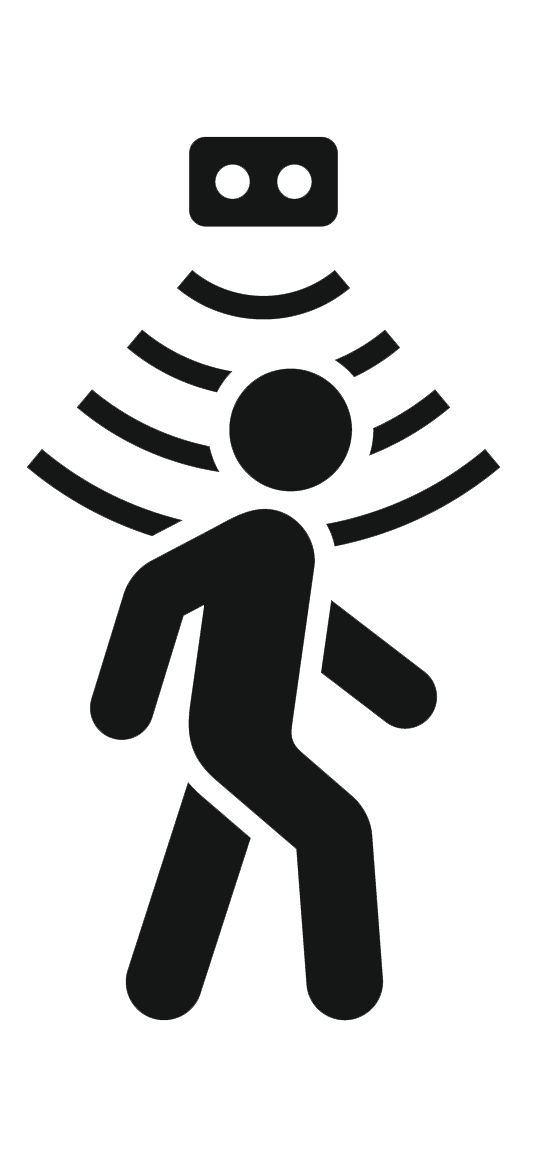
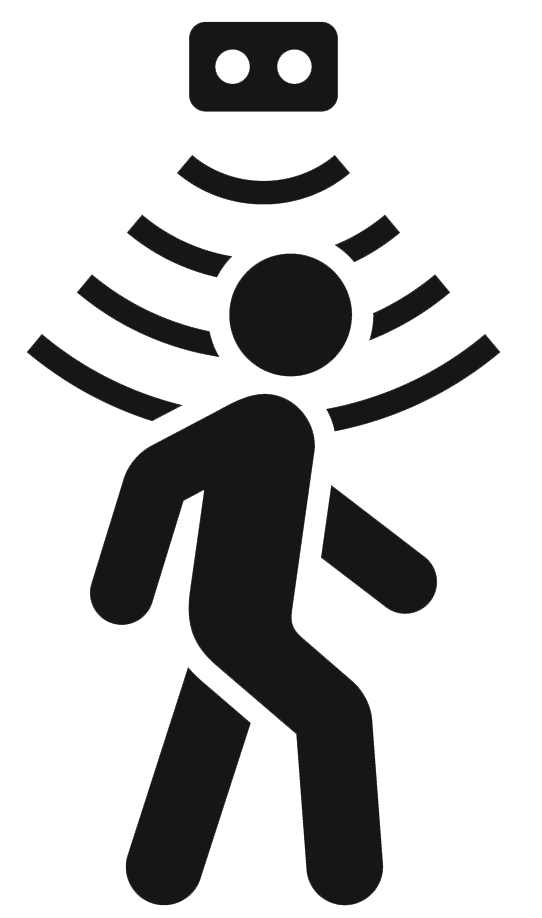
Fikset opp mellomrommet mellom divene...

Changed region(s): [[0.059, 0.0, 0.9151, 1.0], [0.2066, 0.488, 0.2657, 0.549], [0.3247, 0.4575, 0.3838, 0.488]]

diff --git a/css/style.css b/css/style.css
@@ -83,7 +83,7 @@ h1{
   display: flex;
   flex-direction: row;
   align-items: center;
-  margin-top: 15vh;
+  margin-top: 10vh;
 }
 
 .footer div{
@@ -725,7 +725,7 @@ main{
 .divices_img{
   height: auto;
   width: 100%;
-  padding-top: 2em;
+  padding-top: 1em;
   padding-bottom: 1em;
 }
 .divices_img img{
@@ -739,12 +739,22 @@ main{
   line-height: 1.5em;
 }
 .prototype{
-  height: 32em;
+  height: 33em;
   width: 100%;
   padding: 0.5em;
 }
+.sensor_proto{
+  height: 25em;
+  padding-top: 1em;
+}
+.sensor_proto .app_img img {
+  height: 22em;
+}
 .app_txt h1{
   font-size: 30px;
+  margin-top: 10%;
+}
+.app_txt .home_txt{
   margin-top: 15%;
 }
 .app_txt p{
@@ -768,17 +778,18 @@ main{
 }
 .app_img img{
   height: 28em;
+  padding-top: 1em;
   width: auto;
 }
 .app_img .tablet_img{
   margin-top: 3em;
-  height: 20em;
+  height: 25em;
   width: auto;
 }
 
 
 /*******Resoinsive-Prototype-Page**********/
-@media screen and (max-width: 1000px){
+@media screen and (max-width: 800px){
   .divices_img img{
     height: auto;
     max-width: 100%;
@@ -802,9 +813,10 @@ main{
   }
   .app_txt p{
     text-align: left;
-    margin-top: 1%;
-    margin-left:  1%;
-    margin-right: 1%;
+    margin-top: 1% 1% 0% 1%;
+  }
+  .app_txt .home_txt{
+    margin-top: 4%;
   }
   .wrapper_left{
     float: none;
@@ -833,7 +845,7 @@ main{
 @media screen and (min-width: 425px)and (max-width: 1000px){
     .app_img .tablet_img{
         margin-top: 0.1em;
-        height: 20em;
+        height: 25em;
         width: auto;
     }
 }

diff --git a/prototype.html b/prototype.html
@@ -43,7 +43,7 @@
                 The HowCrowded provides a dual solution for people and organizations to make social distancing a breeze.<br>
             </h1>
     </div>
-    <section class="prototype">
+    <section class="prototype sensor_proto">
         <div class="app_txt wrapper_left">
             <h1>Sensors </h1>
             <p>
@@ -78,7 +78,7 @@
             <img src="images/prototype/1Home.png" alt="Home page">
         </div>
         <div class="app_txt wrapper_left">
-          <p>
+          <p class="home_txt">
               When opening the app, this is the first page you will see.
               At this page, you have multiple ways to choose the public place you want
               information about.
